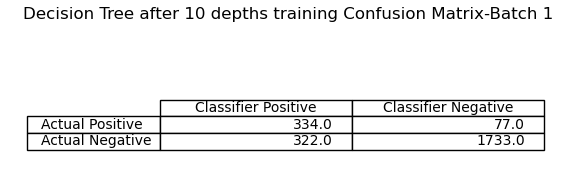
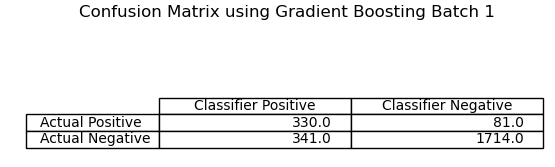
outputs

Changed region(s): [[0.0306, 0.5689, 0.9802, 0.8982], [0.0306, 0.0299, 0.9802, 0.1497]]

diff --git a/main/gradient_boosting.py b/main/gradient_boosting.py
@@ -4,7 +4,10 @@ import seaborn as sns
 import numpy as np
 import matplotlib.pyplot as plt
 from sklearn.metrics import accuracy_score, precision_score, recall_score, f1_score
-# from decision_tree import confusion_matrix
+from sklearn.feature_selection import SelectKBest, f_classif
+from sklearn.preprocessing import StandardScaler
+from sklearn.model_selection import learning_curve
+
 
 
 def confusion_matrix(y, y_pred, fig):
@@ -40,19 +43,69 @@ def process_gradient_boosting(Xtrn, ytrn, Xtst, ytst, batch_count):
     print("Precision Score:", round(precision_score(ytst, predictions), 4))
     print("Recall score :", recall_score(ytst,predictions))
     print("F-1 Score:", round(f1_score(ytst, predictions), 4))
+
+    # calculate learning curve for training set sizes from 10% to 100% in steps of 10%
+    train_sizes, train_scores, test_scores = learning_curve(clf, Xtrn, ytrn, train_sizes=np.linspace(0.1, 1.0, 10), cv=5)
     
-    fig1 = plt.figure(1)
-    confusion_matrix(ytst, predictions, fig1)
-    fig1.suptitle("Decision Tree after 10 depths training Confusion Matrix-Batch {0}".format(batch_count))
+    # calculate mean and standard deviation of training and test scores
+    train_mean = np.mean(train_scores, axis=1)
+    train_std = np.std(train_scores, axis=1)
+    test_mean = np.mean(test_scores, axis=1)
+    test_std = np.std(test_scores, axis=1)
+
+    # plot the learning curve
+    plt.plot(train_sizes, train_mean, color='blue', marker='o', markersize=5, label='Training Accuracy')
+    plt.fill_between(train_sizes, train_mean + train_std, train_mean - train_std, alpha=0.15, color='blue')
+    plt.plot(train_sizes, test_mean, color='green', linestyle='--', marker='s', markersize=5, label='Validation Accuracy')
+    plt.fill_between(train_sizes, test_mean + test_std, test_mean - test_std, alpha=0.15, color='green')
+    plt.xlabel('Training Set Size')
+    plt.ylabel('Accuracy')
+    plt.title('Random Forest Learning Curve for Batch 3')
+    plt.legend(loc='lower right')
     plt.show()
 
+
+    fig1 = plt.figure(1)
+    confusion_matrix(ytst, predictions, fig1)
+    fig1.suptitle("Confusion Matrix using Gradient Boosting Batch {0}".format(batch_count))
+    # plt.show()
+
 if __name__ == '__main__':
-    Xtrn1, ytrn1 = get_batch_1_1()
-    Xtrn2, ytrn2 = get_batch_1_2()
-    Xtrn3, ytrn3 = get_batch_1_3()
-    Xtrn4, ytrn4 = get_batch_1_4()
+
+    Xtrn1, ytrn1 = get_batch_1_4()
     Xtst, ytst = get_test_data()
-    process_gradient_boosting(Xtrn1,ytrn1, Xtst,ytst,1)
-    process_gradient_boosting(Xtrn2,ytrn2, Xtst,ytst,2)
-    process_gradient_boosting(Xtrn3,ytrn3, Xtst,ytst,3)
-    process_gradient_boosting(Xtrn4,ytrn4, Xtst,ytst,4)
+
+    # Initialize SelectKBest with the desired number of features to select
+    k = 15  # Number of features to select
+    selector = SelectKBest(score_func=f_classif, k=k)
+
+    # Fit the selector on the training data
+    selector.fit(Xtrn1, ytrn1)
+
+    # Get the indices of the selected features
+    selected_feature_indices = selector.get_support(indices=True)
+
+    # Subset the training data with the selected features
+    Xtrn1 = Xtrn1[:, selected_feature_indices]
+    w=Xtrn1.shape[1]
+    print("shape after", w)
+
+
+    # Similarly, subset the test data (if applicable)
+    Xtst = Xtst[:, selected_feature_indices]
+
+
+    # Feature scaling for SVM and Gradient Boosting
+    scaler = StandardScaler()
+    X_train_scaled = scaler.fit_transform(Xtrn1)
+    X_test_scaled = scaler.transform(Xtst)
+
+
+    # Xtrn2, ytrn2 = get_batch_1_2()
+    # Xtrn3, ytrn3 = get_batch_1_3()
+    # Xtrn4, ytrn4 = get_batch_1_4()
+    # Xtst, ytst = get_test_data()
+    process_gradient_boosting(X_train_scaled,ytrn1, X_test_scaled,ytst,4)
+    # process_gradient_boosting(Xtrn2,ytrn2, Xtst,ytst,2)
+    # process_gradient_boosting(Xtrn3,ytrn3, Xtst,ytst,3)
+    # process_gradient_boosting(Xtrn4,ytrn4, Xtst,ytst,4)

diff --git a/main/logistic_regression.py b/main/logistic_regression.py
@@ -4,7 +4,9 @@ import seaborn as sns
 import numpy as np
 import matplotlib.pyplot as plt
 from sklearn.metrics import accuracy_score, precision_score, recall_score, f1_score
-# from decision_tree import confusion_matrix
+from sklearn.feature_selection import SelectKBest, f_classif
+from sklearn.preprocessing import StandardScaler
+from sklearn.model_selection import learning_curve
 
 
 def confusion_matrix(y, y_pred, fig):
@@ -38,19 +40,64 @@ def process_logistic_regression(Xtrn, ytrn, Xtst, ytst, batch_count):
     print("Recall score :", recall_score(ytst, predictions))
     print("F-1 Score:", round(f1_score(ytst, predictions), 4))
 
-    fig1 = plt.figure(1)
-    confusion_matrix(ytst, predictions, fig1)
-    fig1.suptitle("Logistic Regression Confusion Matrix - Batch {0}".format(batch_count))
+    # calculate learning curve for training set sizes from 10% to 100% in steps of 10%
+    train_sizes, train_scores, test_scores = learning_curve(clf, Xtrn, ytrn, train_sizes=np.linspace(0.1, 1.0, 10), cv=5)
+
+    # calculate mean and standard deviation of training and test scores
+    train_mean = np.mean(train_scores, axis=1)
+    train_std = np.std(train_scores, axis=1)
+    test_mean = np.mean(test_scores, axis=1)
+    test_std = np.std(test_scores, axis=1)
+
+    # plot the learning curve
+    plt.plot(train_sizes, train_mean, color='blue', marker='o', markersize=5, label='Training Accuracy')
+    plt.fill_between(train_sizes, train_mean + train_std, train_mean - train_std, alpha=0.15, color='blue')
+    plt.plot(train_sizes, test_mean, color='green', linestyle='--', marker='s', markersize=5, label='Validation Accuracy')
+    plt.fill_between(train_sizes, test_mean + test_std, test_mean - test_std, alpha=0.15, color='green')
+    plt.xlabel('Training Set Size')
+    plt.ylabel('Accuracy')
+    plt.title('Logistic Regression Learning Curve for Batch 3')
+    plt.legend(loc='lower right')
     plt.show()
+
+    fig1 = plt.figure(2)
+    confusion_matrix(ytst, predictions, fig1)
+    fig1.suptitle("Logistic Regression Confusion Matrix - Batch 3")
+    # plt.show()
 
 
 if __name__ == '__main__':
-    Xtrn1, ytrn1 = get_batch_1_1()
-    Xtrn2, ytrn2 = get_batch_1_2()
-    Xtrn3, ytrn3 = get_batch_1_3()
-    Xtrn4, ytrn4 = get_batch_1_4()
+    Xtrn1, ytrn1 = get_batch_1_3()
+    # Xtrn2, ytrn2 = get_batch_1_2()
+    # Xtrn3, ytrn3 = get_batch_1_3()
+    # Xtrn4, ytrn4 = get_batch_1_4()
     Xtst, ytst = get_test_data()
-    process_logistic_regression(Xtrn1,ytrn1, Xtst,ytst,1)
-    process_logistic_regression(Xtrn2,ytrn2, Xtst,ytst,2)
-    process_logistic_regression(Xtrn3,ytrn3, Xtst,ytst,3)
-    process_logistic_regression(Xtrn4,ytrn4, Xtst,ytst,4)
+
+    # Initialize SelectKBest with the desired number of features to select
+    k = 15  # Number of features to select
+    selector = SelectKBest(score_func=f_classif, k=k)
+
+    # Fit the selector on the training data
+    selector.fit(Xtrn1, ytrn1)
+
+    # Get the indices of the selected features
+    selected_feature_indices = selector.get_support(indices=True)
+
+    # Subset the training data with the selected features
+    Xtrn1 = Xtrn1[:, selected_feature_indices]
+    w=Xtrn1.shape[1]
+    print("shape after", w)
+
+
+    # Similarly, subset the test data (if applicable)
+    Xtst = Xtst[:, selected_feature_indices]
+
+
+    # Feature scaling for SVM and Gradient Boosting
+    scaler = StandardScaler()
+    X_train_scaled = scaler.fit_transform(Xtrn1)
+    X_test_scaled = scaler.transform(Xtst)
+    process_logistic_regression(Xtrn1,ytrn1, Xtst,ytst,3)
+    # process_logistic_regression(Xtrn2,ytrn2, Xtst,ytst,2)
+    # process_logistic_regression(Xtrn3,ytrn3, Xtst,ytst,3)
+    # process_logistic_regression(Xtrn4,ytrn4, Xtst,ytst,4)

diff --git a/main/random_forest.py b/main/random_forest.py
@@ -4,7 +4,9 @@ import seaborn as sns
 import numpy as np
 import matplotlib.pyplot as plt
 from sklearn.metrics import accuracy_score, precision_score, recall_score, f1_score
-# from decision_tree import confusion_matrix
+from sklearn.feature_selection import SelectKBest, f_classif
+from sklearn.preprocessing import StandardScaler
+from sklearn.model_selection import learning_curve
 
 
 def confusion_matrix(y, y_pred, fig):
@@ -38,18 +40,62 @@ def process_random_forest(Xtrn, ytrn, Xtst, ytst, batch_count):
     print("Recall score :", recall_score(ytst, predictions))
     print("F-1 Score:", round(f1_score(ytst, predictions), 4))
 
+    # calculate learning curve for training set sizes from 10% to 100% in steps of 10%
+    train_sizes, train_scores, test_scores = learning_curve(clf, Xtrn, ytrn, train_sizes=np.linspace(0.1, 1.0, 10), cv=5)
+
+    # calculate mean and standard deviation of training and test scores
+    train_mean = np.mean(train_scores, axis=1)
+    train_std = np.std(train_scores, axis=1)
+    test_mean = np.mean(test_scores, axis=1)
+    test_std = np.std(test_scores, axis=1)
+
+    # plot the learning curve
+    plt.plot(train_sizes, train_mean, color='blue', marker='o', markersize=5, label='Training Accuracy')
+    plt.fill_between(train_sizes, train_mean + train_std, train_mean - train_std, alpha=0.15, color='blue')
+    plt.plot(train_sizes, test_mean, color='green', linestyle='--', marker='s', markersize=5, label='Validation Accuracy')
+    plt.fill_between(train_sizes, test_mean + test_std, test_mean - test_std, alpha=0.15, color='green')
+    plt.xlabel('Training Set Size')
+    plt.ylabel('Accuracy')
+    plt.title('Random Forest Learning Curve for Batch 3')
+    plt.legend(loc='lower right')
+    plt.show()
+
     fig1 = plt.figure(1)
     confusion_matrix(ytst, predictions, fig1)
     fig1.suptitle("Random Forest Confusion Matrix - Batch {0}".format(batch_count))
-    plt.show()
+    # plt.show()
 
 if __name__ == '__main__':
-    Xtrn1, ytrn1 = get_batch_1_1()
-    Xtrn2, ytrn2 = get_batch_1_2()
-    Xtrn3, ytrn3 = get_batch_1_3()
-    Xtrn4, ytrn4 = get_batch_1_4()
+    Xtrn1, ytrn1 = get_batch_1_4()
+    # Xtrn2, ytrn2 = get_batch_1_2()
+    # Xtrn3, ytrn3 = get_batch_1_3()
+    # Xtrn4, ytrn4 = get_batch_1_4()
     Xtst, ytst = get_test_data()
-    process_random_forest(Xtrn1,ytrn1, Xtst,ytst,1)
-    process_random_forest(Xtrn2,ytrn2, Xtst,ytst,2)
-    process_random_forest(Xtrn3,ytrn3, Xtst,ytst,3)
-    process_random_forest(Xtrn4,ytrn4, Xtst,ytst,4)
+    # Initialize SelectKBest with the desired number of features to select
+    k = 15  # Number of features to select
+    selector = SelectKBest(score_func=f_classif, k=k)
+
+    # Fit the selector on the training data
+    selector.fit(Xtrn1, ytrn1)
+
+    # Get the indices of the selected features
+    selected_feature_indices = selector.get_support(indices=True)
+
+    # Subset the training data with the selected features
+    Xtrn1 = Xtrn1[:, selected_feature_indices]
+    w=Xtrn1.shape[1]
+    print("shape after", w)
+
+
+    # Similarly, subset the test data (if applicable)
+    Xtst = Xtst[:, selected_feature_indices]
+
+
+    # Feature scaling for SVM and Gradient Boosting
+    scaler = StandardScaler()
+    X_train_scaled = scaler.fit_transform(Xtrn1)
+    X_test_scaled = scaler.transform(Xtst)
+    process_random_forest(Xtrn1,ytrn1, Xtst,ytst,4)
+    # process_random_forest(Xtrn2,ytrn2, Xtst,ytst,2)
+    # process_random_forest(Xtrn3,ytrn3, Xtst,ytst,3)
+    # process_random_forest(Xtrn4,ytrn4, Xtst,ytst,4)
